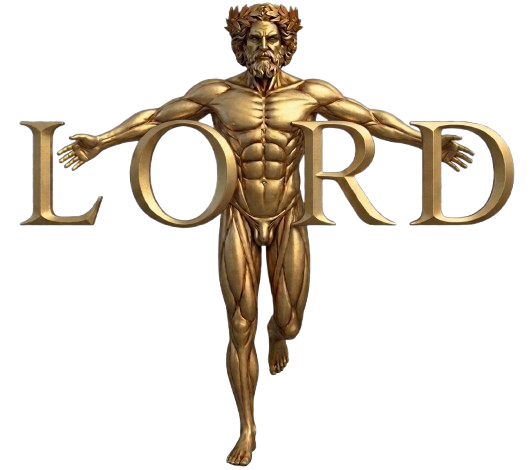
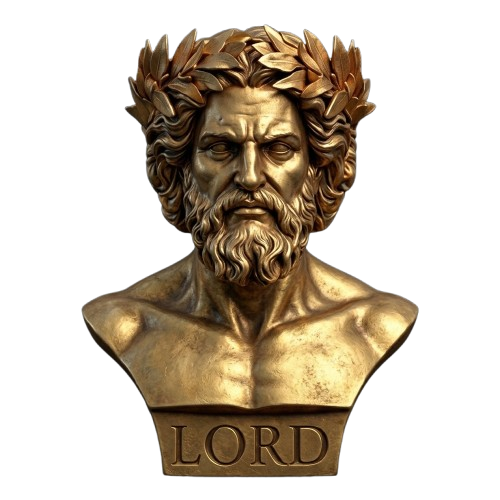
auto-commit for 7e5d49eb-ad2f-48b9-a9ad-5335313d24af

diff --git a/memory/CHANGELOG.md b/memory/CHANGELOG.md
@@ -159,3 +159,8 @@
 - deployment_agent: sin bloqueadores (compilation_passed). Añadido **/test_credentials.md a .gitignore.
 - NOTA: WeasyPrint requiere libs nativas (libpango/cairo/poppler) en runtime; presentes en el entorno. Si tras redeploy aún fallara, sería por libs nativas del contenedor de deploy → escalar a soporte.
 - ACCIÓN USUARIO: REDEPLOY obligatorio para llevar el fix de requirements.txt a producción.
+
+## 2026-06-25 — Logo PDFs (busto) + diagnóstico Reporte Maestro prod
+- Logo en PDFs: el usuario veía la "escama de dragón" (figura dorada con brazos+LORD). Reemplazados lordtraining-scale.png, lordtraining-icon-pdf.png, lordtraining-master.png por el busto dorado limpio transparente (500x500, RGBA) que adjuntó el usuario. Verificado visualmente en cover del Reporte Maestro: aparece el busto + "LORDTRAINING". Backend reiniciado para limpiar cache de sessions_export.
+- Reporte Maestro: FUNCIONA en Preview (200, 170KB, 1.1s). El fallo "Cloudflare could not parse / empty response" es EXCLUSIVO de PRODUCCIÓN → requiere REDEPLOY (incluye fix de requirements.txt weasyprint). Si persiste tras redeploy = libs nativas del contenedor de deploy → soporte.
+- ACCIÓN USUARIO: REDEPLOY para llevar a prod (a) requirements.txt con weasyprint, (b) nuevo logo busto en PDFs, (c) favicon ?v=2.
